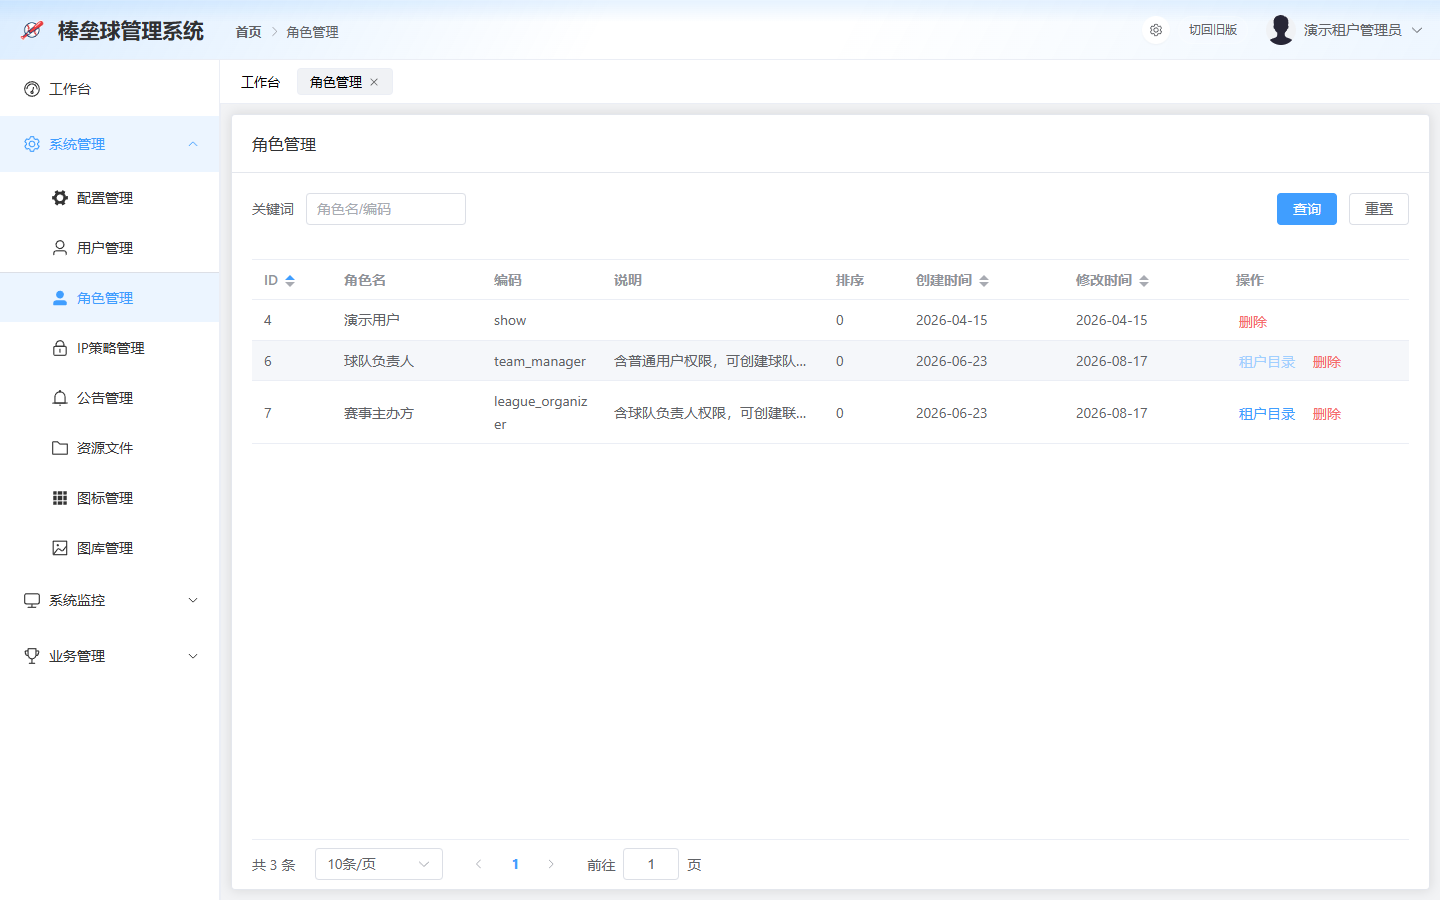
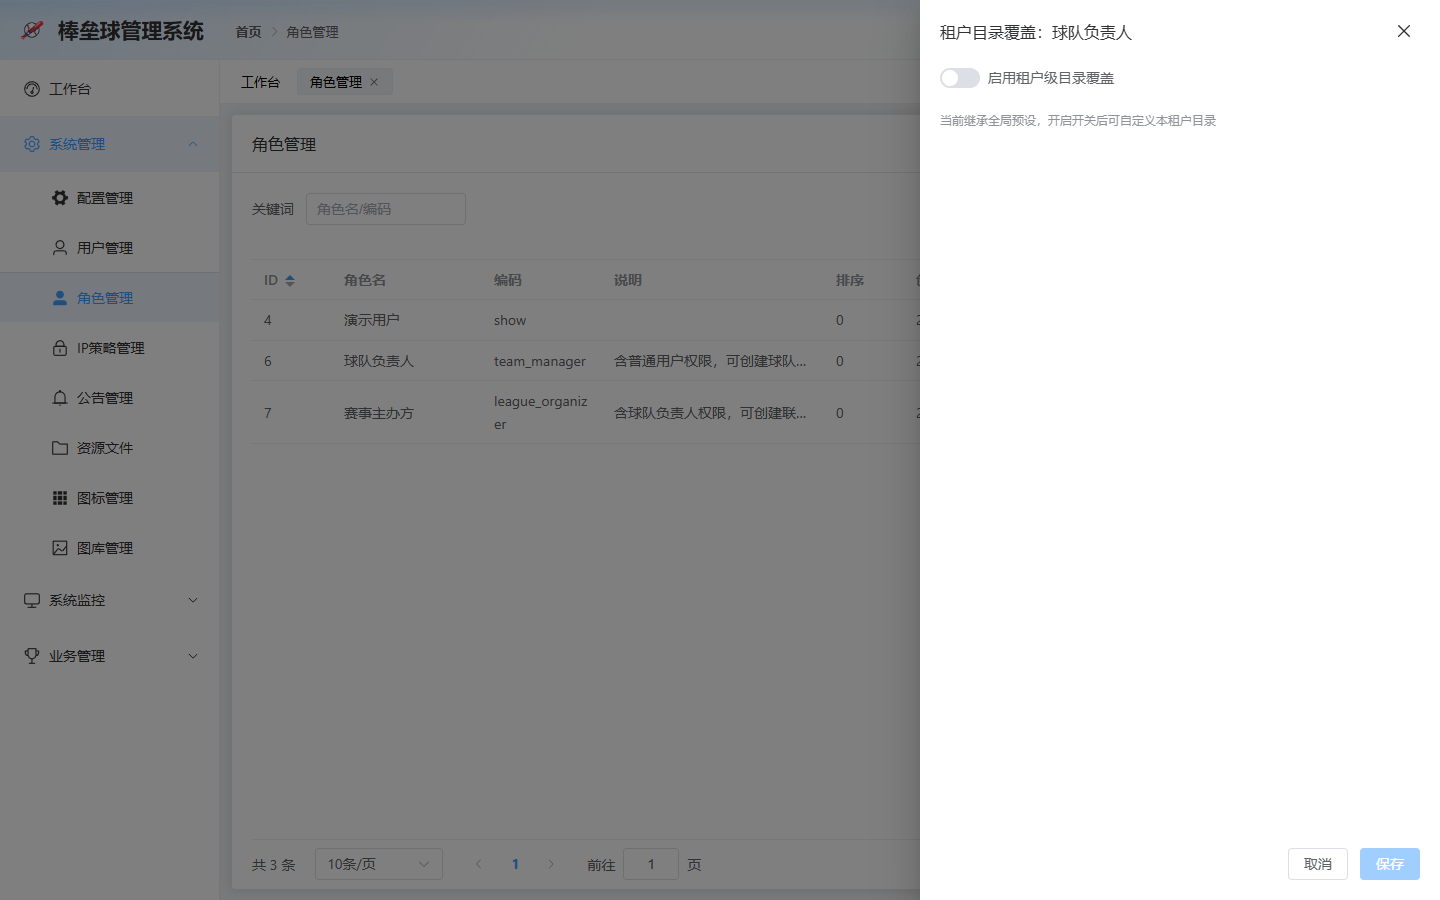
docs(manual): 用户使用手册 v1.2——替换真实租户目录抽屉实图（#190 修复后重拍）

diff --git a/docs/manual/user-manual.md b/docs/manual/user-manual.md
@@ -1,7 +1,7 @@
 # 棒球赛事管理系统 · 用户使用手册
 
-> 版本：v1.1 ｜ 更新：2026-10-01 ｜ 适用：新版前端（`/bs-ball-next/`）· 账号权限体系重构（批次 1–7）后
-> 截图环境：测试环境 `test.bsdone.com`（示例账号：`demo_admin` 等演示号；构建含 PR #189 修复）
+> 版本：v1.2 ｜ 更新：2026-10-02 ｜ 适用：新版前端（`/bs-ball-next/`）· 账号权限体系重构（批次 1–7）后（含 #191 抽屉修复）
+> 截图环境：测试环境 `test.bsdone.com`（示例账号：`demo_admin` 等演示号；构建含 #189/#191 修复）
 > 本手册按**角色层级**组织。请先在第 1 节找到你的角色，再进入对应章节。
 
 ---
@@ -102,7 +102,7 @@
 - **角色管理**：查看/配置角色（租户管理员可为"球队负责人/赛事主办方"配置**本租户专用**的菜单目录——「租户目录」入口，见下节）。
 - **超级管理员**可配置全部角色（含平台角色的全局权限）。
 
-![角色管理（租户管理员视角，含「租户目录」入口）](assets/13-tenant-override-drawer.png)
+![「租户目录」覆盖抽屉（选择菜单→保存即生成本租户覆盖）](assets/13-tenant-override-drawer.png)
 
 > 「租户目录」打开后：开启「启用租户级目录覆盖」→ 勾选该角色在本租户可见的菜单 → 保存即生效；「清除覆盖」恢复全局默认。覆盖仅调整菜单/按钮导航面，不改变数据范围。
 
@@ -245,10 +245,10 @@
 | 批量导入有重复怎么办？ | 姓名+出生日期与既有档案相同者自动跳过，结果有汇总提示。 |
 | 球员如何离队？ | 球员本人登录门户 → 个人资料 → 球队经历 → 取消"当前球队"。 |
 | 主办方为何突然不能编辑某队了？ | 该队已有负责人（权属转移），主办方对"有主球队"只读。 |
-| 点「租户目录」没反应？ | 已知问题（前端事件静默无响应，跟踪 issue）；后端权限已修复，交互修复后将随版本更新，届时补上抽屉实图。 |
+| 如何为门户角色定制本租户菜单？ | 角色管理 → 「球队负责人/赛事主办方」行 → 「租户目录」：开启覆盖并勾选菜单后保存；「清除覆盖」回落全局预设（v1.2 起交互已修复）。 |
 
 ---
 
 ## 附：截图索引（测试环境实拍）
 
-01b 门户游客 / 02 门户登录 / 03 后台登录 / 04 工作台 / 05 球队列表 / 06 新增球队(管理员) / 07 球员列表 / 08 新增球员 / 10 赛事列表 / 11 实时录入 / 12 角色列表 / 13 角色(租户目录入口) / 14 平台资产 / 15 沿革记录 / 16–18 球队负责人视角 / 19–22 用户管理与建号 / 23–24 球队负责人建队 / 25 主办方登录 / 25b 主办方联盟管理 / 27 认领审核
+01b 门户游客 / 02 门户登录 / 03 后台登录 / 04 工作台 / 05 球队列表 / 06 新增球队(管理员) / 07 球员列表 / 08 新增球员 / 10 赛事列表 / 11 实时录入 / 12 角色列表 / 13 租户目录覆盖抽屉 / 14 平台资产 / 15 沿革记录 / 16–18 球队负责人视角 / 19–22 用户管理与建号 / 23–24 球队负责人建队 / 25 主办方登录 / 25b 主办方联盟管理 / 27 认领审核
